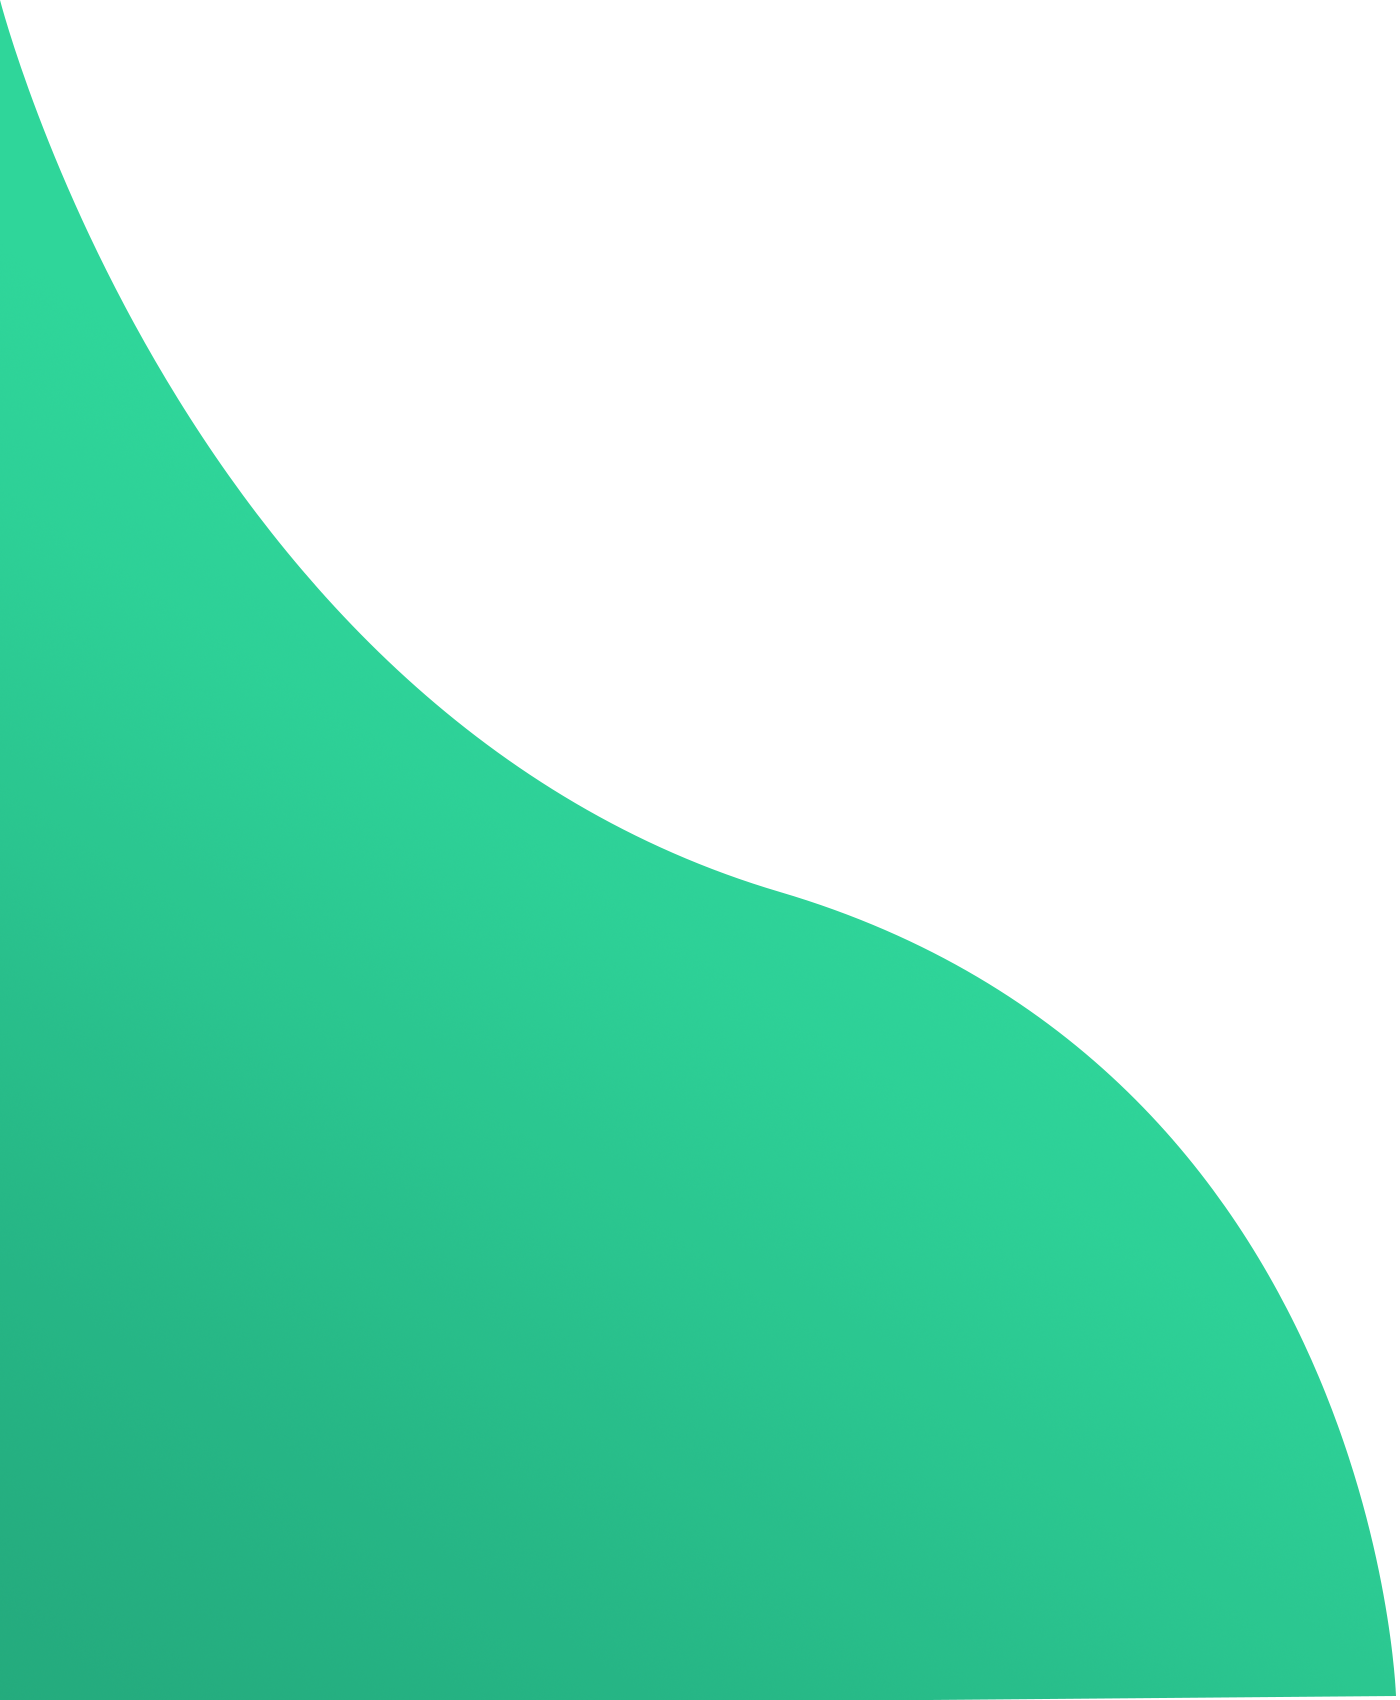
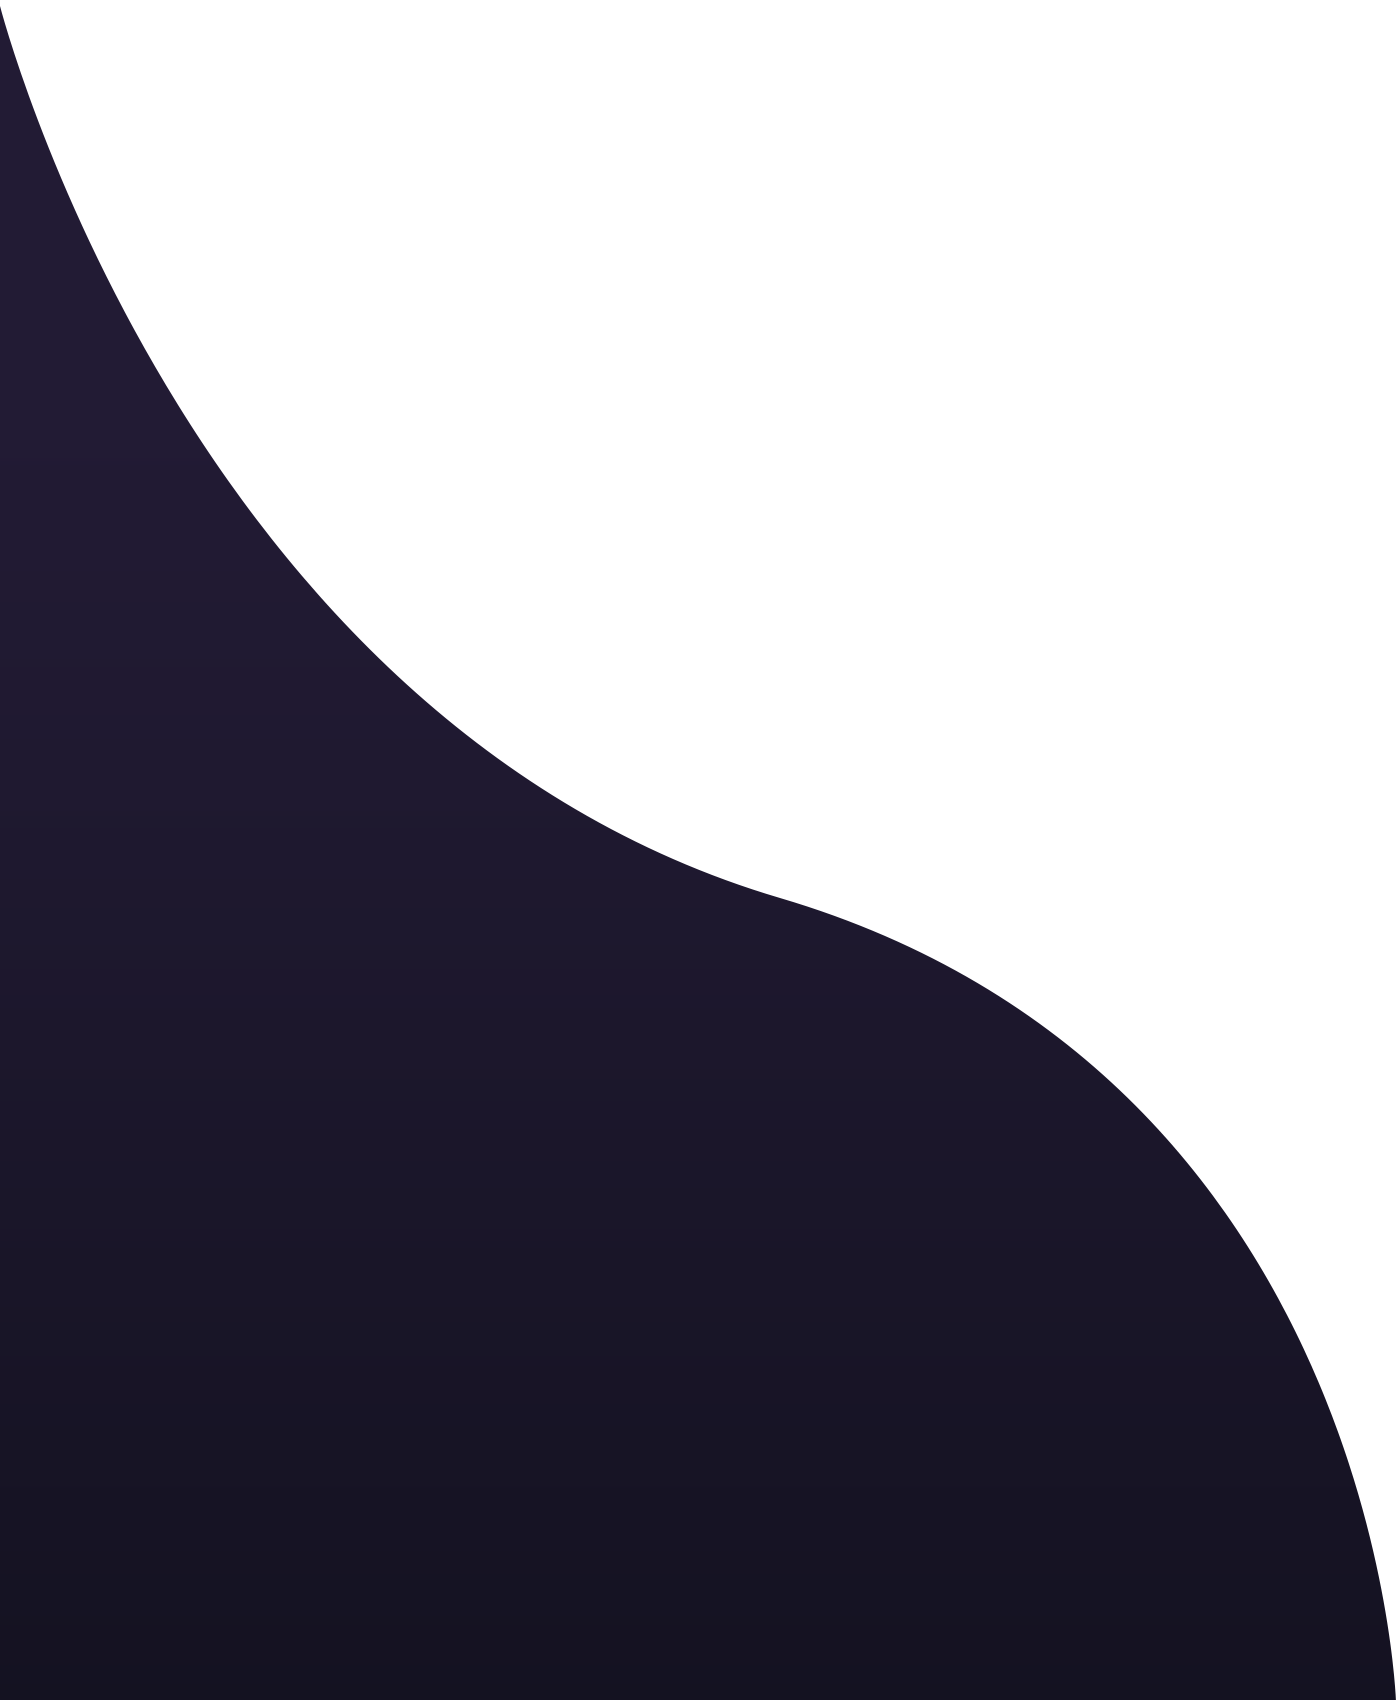
modificações na pagina de login

diff --git a/css/login/login.css b/css/login/login.css
@@ -28,7 +28,7 @@ body {
 
 .img {
   display: flex;
-  justify-content: flex-end;
+  justify-content: center;
   align-items: center;
 }
 
@@ -40,7 +40,7 @@ body {
 }
 
 .img img {
-  width: 500px;
+  width: 400px;
 }
 
 form {
@@ -54,8 +54,15 @@ form {
 .login-content h2 {
   margin: 15px 0;
   color: #333;
-  text-transform: uppercase;
-  font-size: 2.9rem;
+  font-size: 2.6rem;
+  font-weight: 400;
+}
+
+.login-content p {
+  color: #333;
+  font-weight: 100;
+  margin-top: -15px;
+  margin-bottom: 25px;
 }
 
 .login-content .input-div {
@@ -93,7 +100,7 @@ form {
   top: 50%;
   transform: translateY(-50%);
   color: #999;
-  font-size: 18px;
+  font-size: 15px;
   transition: 0.3s;
 }
 
@@ -103,7 +110,7 @@ form {
   bottom: -2px;
   width: 0%;
   height: 2px;
-  background-color: #38d39f;
+  background-color: #11101D;
   transition: 0.4s;
 }
 
@@ -121,11 +128,11 @@ form {
 
 .input-div.focus > div > h5 {
   top: -5px;
-  font-size: 15px;
+  font-size: 12px;
 }
 
 .input-div.focus > .i > i {
-  color: #38d39f;
+  color: #11101D;
 }
 
 .input-div > div > input {
@@ -138,7 +145,7 @@ form {
   outline: none;
   background: none;
   padding: 0.5rem 0.7rem;
-  font-size: 1.2rem;
+  font-size: 1rem;
   color: #555;
   font-family: "poppins", sans-serif;
 }
@@ -157,7 +164,7 @@ a {
 }
 
 a:hover {
-  color: #38d39f;
+  color: #11101D;
 }
 
 .btn {
@@ -167,7 +174,7 @@ a:hover {
   border-radius: 25px;
   outline: none;
   border: none;
-  background-image: linear-gradient(to right, #32be8f, #38d39f, #32be8f);
+  background-image: linear-gradient(to right, #1c1a2f, #1c1a2f, #1c1a2f);
   background-size: 200%;
   font-size: 1.2rem;
   color: #fff;
@@ -176,6 +183,7 @@ a:hover {
   margin: 1rem 0;
   cursor: pointer;
   transition: 0.5s;
+  margin-top: 35px;
 }
 
 .btn:hover {
@@ -196,7 +204,7 @@ a:hover {
     margin: 8px 0;
   }
   .img img {
-    width: 400px;
+    width: 0px;
   }
 }
 @media screen and (max-width: 900px) {

diff --git a/css/login/login.scss b/css/login/login.scss
@@ -28,7 +28,7 @@ body{
 
 .img{
 	display: flex;
-	justify-content: flex-end;
+	justify-content: center;
 	align-items: center;
 }
 
@@ -40,7 +40,7 @@ body{
 }
 
 .img img{
-	width: 500px;
+	width: 400px;
 }
 
 form{
@@ -54,8 +54,15 @@ form{
 .login-content h2{
 	margin: 15px 0;
 	color: #333;
-	text-transform: uppercase;
-	font-size: 2.9rem;
+	font-size: 2.6rem;
+	font-weight: 400;
+}
+
+.login-content p{
+	color: #333;
+	font-weight: 100;
+	margin-top: -15px;
+	margin-bottom: 25px;
 }
 
 .login-content .input-div{
@@ -93,7 +100,7 @@ form{
 	top: 50%;
 	transform: translateY(-50%);
 	color: #999;
-	font-size: 18px;
+	font-size: 15px;
 	transition: .3s;
 }
 
@@ -103,7 +110,7 @@ form{
 	bottom: -2px;
 	width: 0%;
 	height: 2px;
-	background-color: #38d39f;
+	background-color: #11101D;
 	transition: .4s;
 }
 
@@ -121,12 +128,14 @@ form{
 
 .input-div.focus > div > h5{
 	top: -5px;
-	font-size: 15px;
+	font-size: 12px;
 }
 
 .input-div.focus > .i > i{
-	color: #38d39f;
+	color: #11101D;
 }
+
+
 
 .input-div > div > input{
 	position: absolute;
@@ -138,7 +147,7 @@ form{
 	outline: none;
 	background: none;
 	padding: 0.5rem 0.7rem;
-	font-size: 1.2rem;
+	font-size: 1rem;
 	color: #555;
 	font-family: 'poppins', sans-serif;
 }
@@ -157,7 +166,7 @@ a{
 }
 
 a:hover{
-	color: #38d39f;
+	color: #11101D;
 }
 
 .btn{
@@ -167,7 +176,7 @@ a:hover{
 	border-radius: 25px;
 	outline: none;
 	border: none;
-	background-image: linear-gradient(to right, #32be8f, #38d39f, #32be8f);
+	background-image: linear-gradient(to right, #1c1a2f, #1c1a2f, #1c1a2f);
 	background-size: 200%;
 	font-size: 1.2rem;
 	color: #fff;
@@ -176,6 +185,7 @@ a:hover{
 	margin: 1rem 0;
 	cursor: pointer;
 	transition: .5s;
+	margin-top: 35px;
 }
 .btn:hover{
 	background-position: right;
@@ -199,7 +209,7 @@ a:hover{
 	}
 
 	.img img{
-		width: 400px;
+		width: 00px;
 	}
 }
 

diff --git a/pages/login/login.html b/pages/login/login.html
@@ -16,7 +16,8 @@
 		<div class="login-content">
 			<form action="index.html">
 				<img src="../../assets/avatar.svg">
-				<h2 class="title">Bem-vindo</h2>
+				<h2 class="title">Seja bem vindo!</h2>
+				<p>Realize o login para ter acesso ao Dashboard</p>
            		<div class="input-div one">
            		   <div class="i">
            		   		<i class="fas fa-user"></i>
@@ -36,7 +37,7 @@
             	   </div>
             	</div>
             	<a href="#">Esqueceu a senha?</a>
-            	<input type="submit" class="btn" value="Login">
+            	<input type="submit" class="btn" value=" Realizar Login">
             </form>
         </div>
     </div>
